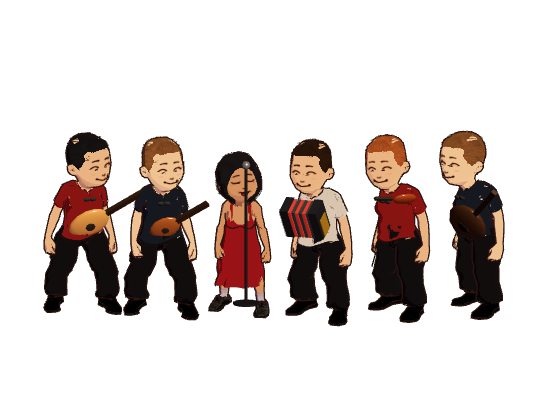
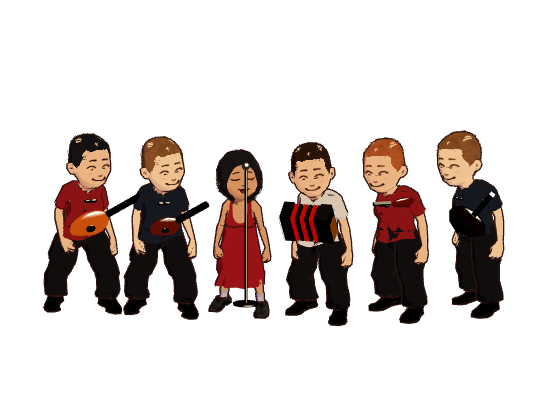
client: re-render the interface cards in the cartoon world look
The venue, band and guest pictures are rendered from the 3D world again with
the toon world shader and compressed atlases. The README budget numbers are
re-measured.

Claude-Session: https://claude.ai/code/session_012dyuhA4em2pijdFsXywCNb

diff --git a/client/README.md b/client/README.md
@@ -79,8 +79,8 @@ clouds, coins and notes over their 3D anchors.
   colours times painted textures mapped in world space or by UV, two-tone light, sheen), one glow
   shader for every lamp and window, and the river shader.
 
-Budget, measured with a full venue (about 80 people): 370–570 draw calls and about 550 k
-triangles at venue zoom, 680–920 draw calls with the whole map in view (two draws per person,
+Budget, measured with a full venue (about 80 people): 360–570 draw calls and 500–550 k
+triangles at venue zoom, 660–920 draw calls with the whole map in view (two draws per person,
 person and outline; people take coarser levels of detail early, `lod_bias` 0.3; the contact
 shadows under people and tables are one MultiMesh, the walkers' another).
 
